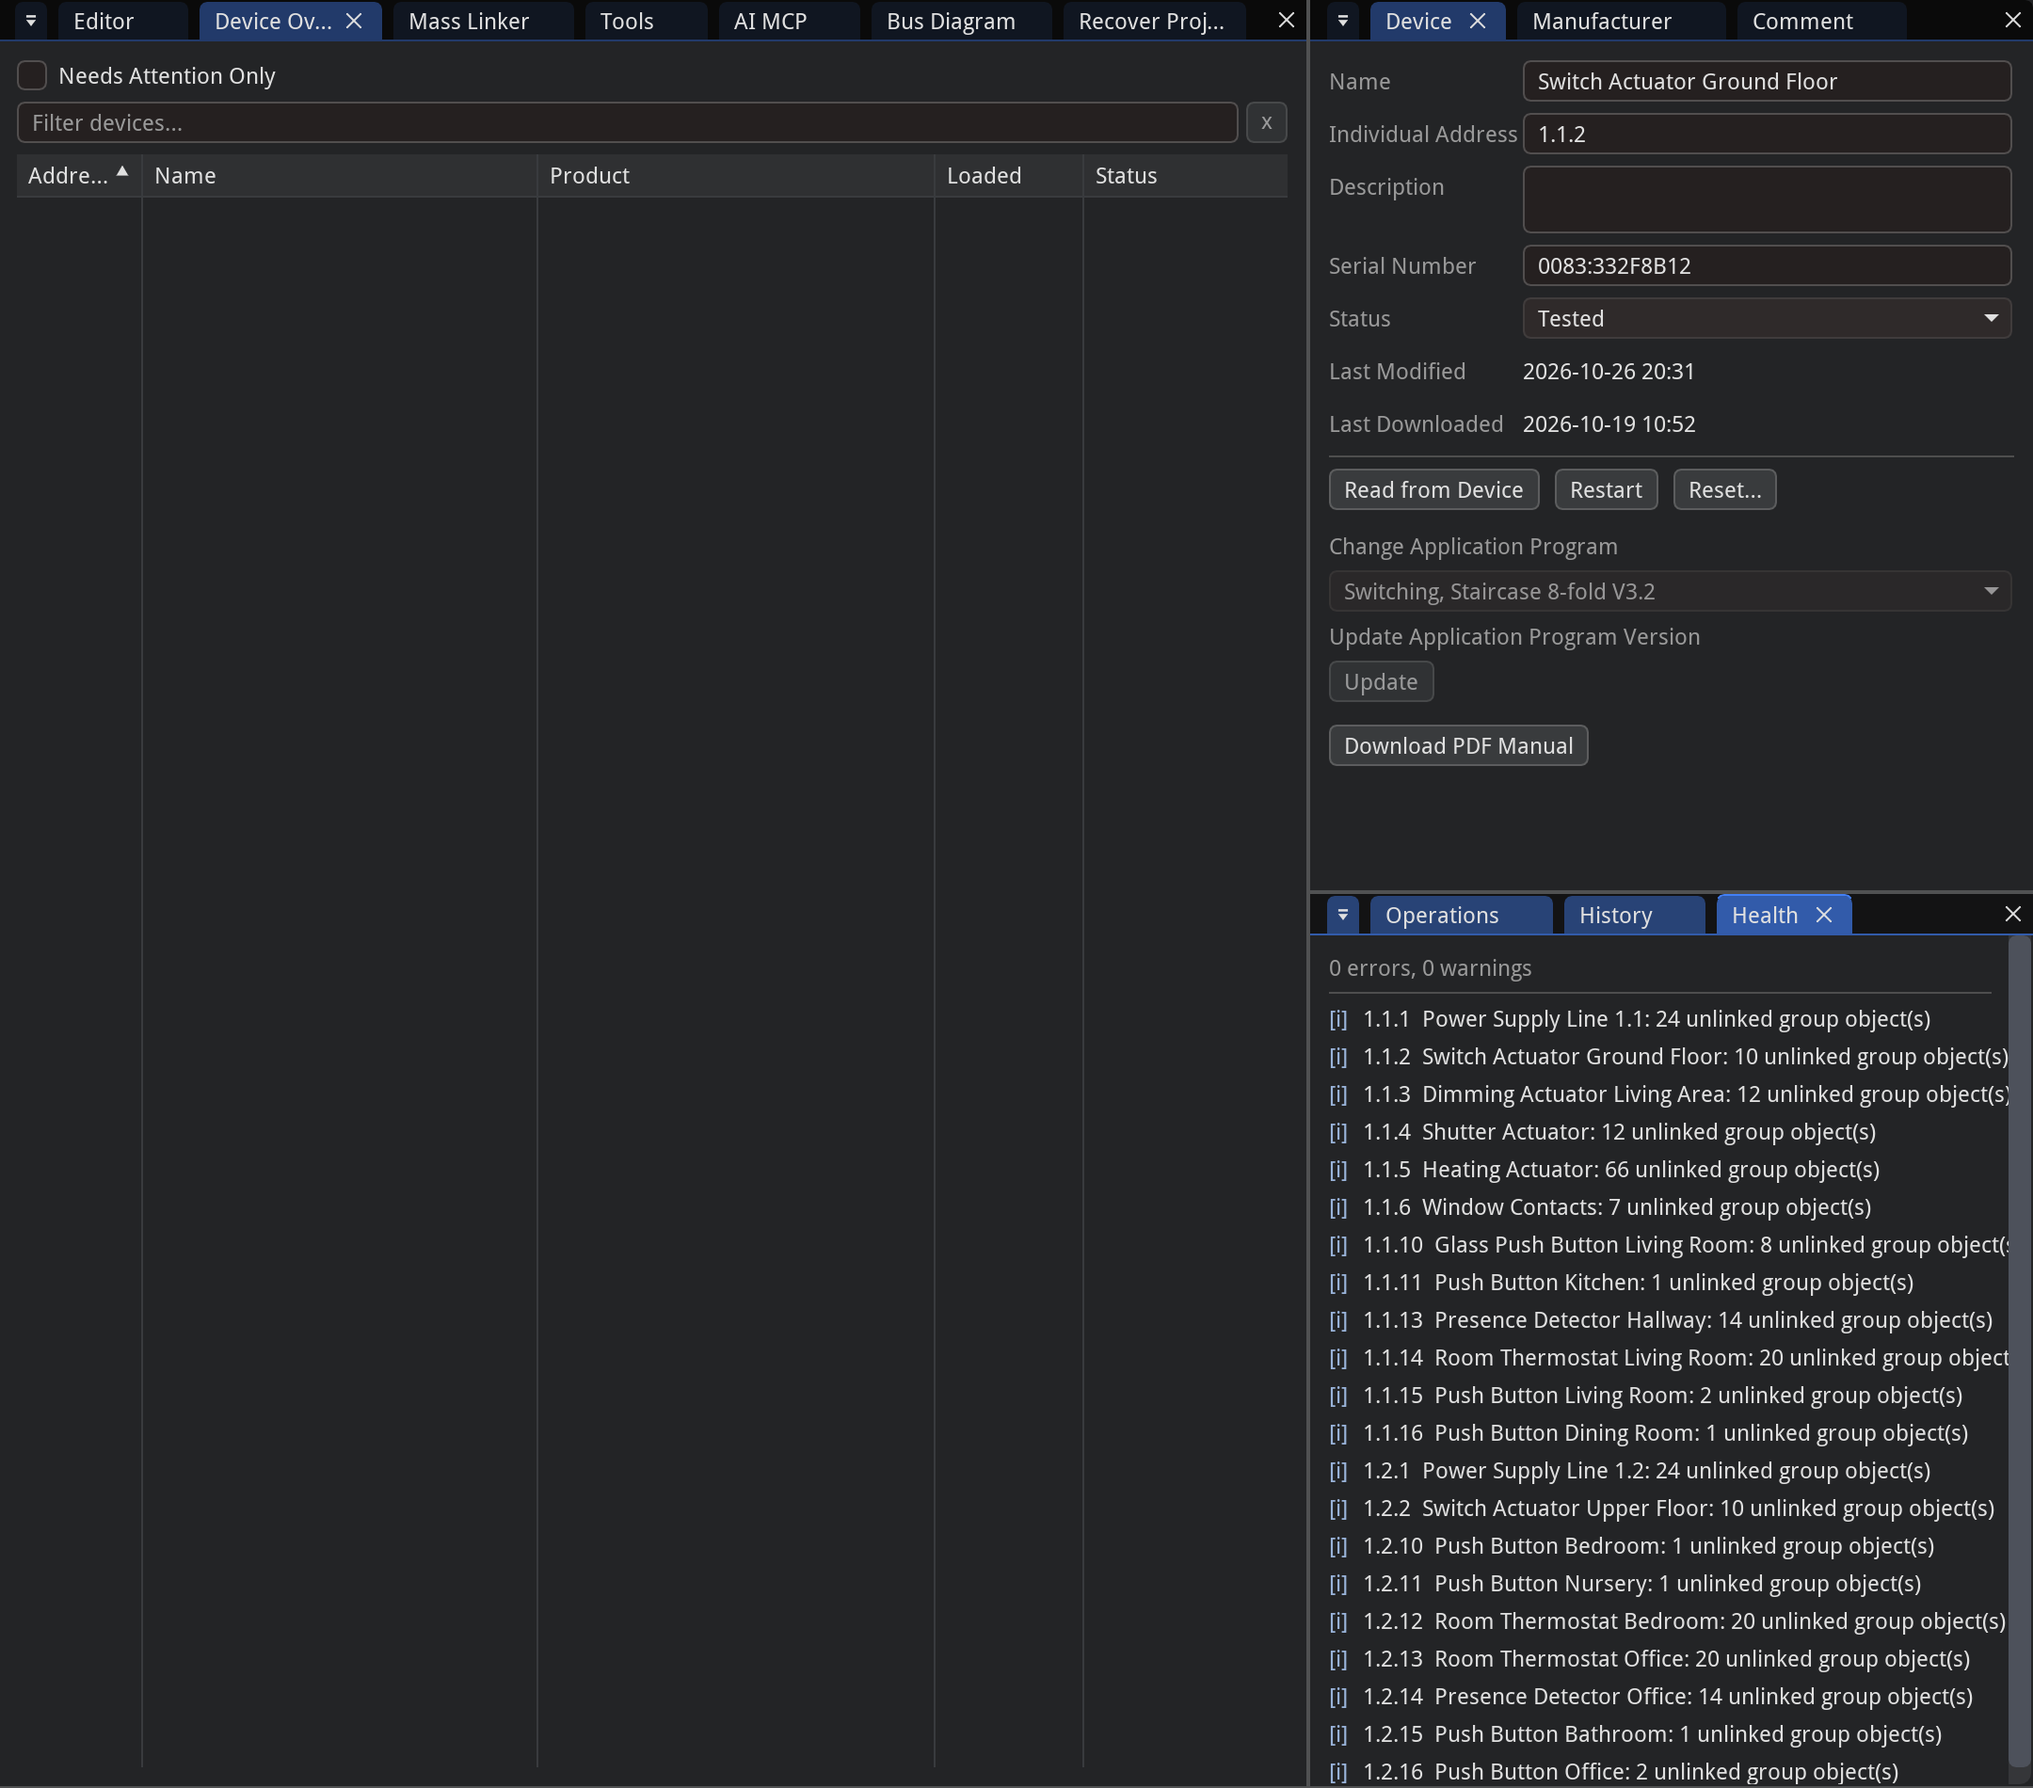
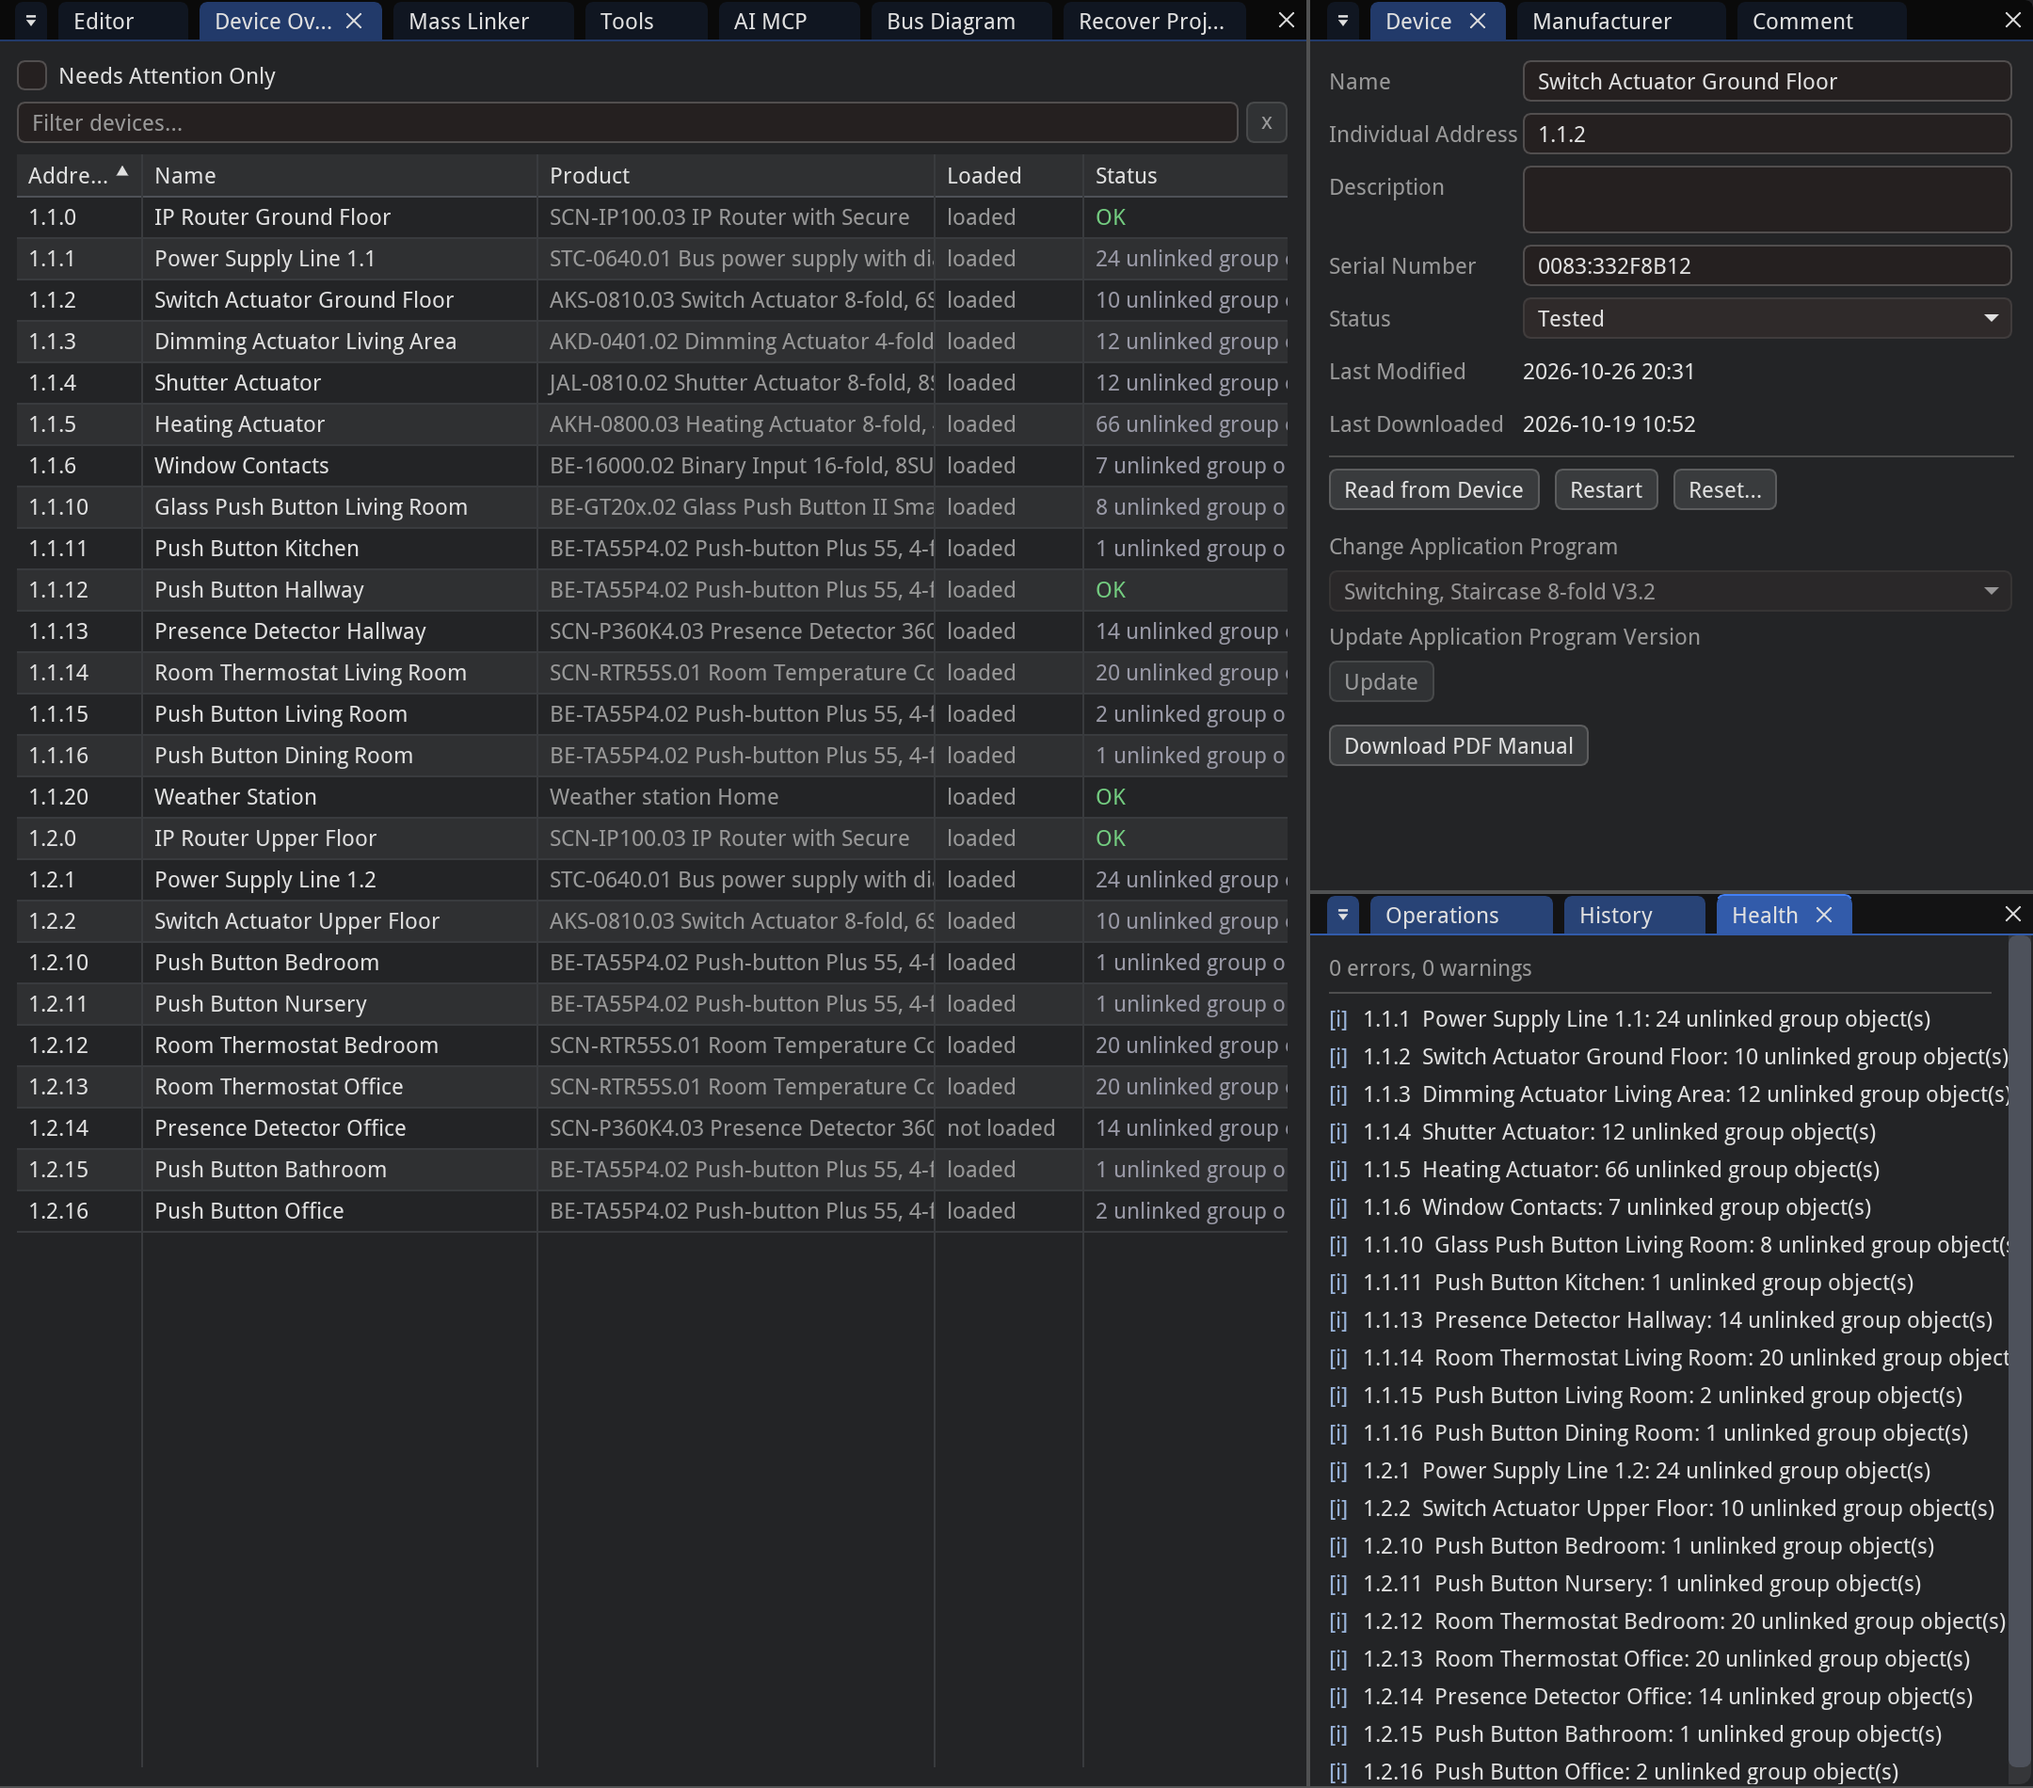
fix(cockpit): fill the Device Overview after a busy project, show findings without the device

diff --git a/apps/editor-gui/src/editor_gui/plugins/cockpit/service.py b/apps/editor-gui/src/editor_gui/plugins/cockpit/service.py
@@ -1,10 +1,12 @@
 """Commissioning cockpit data: one row per project device with catalog + health status.
 
-Rows are built from the live project and cached by the project revision, so the per-frame table
-render never hits the database. "Attention" is derived from the shared health checks."""
+Rows are built from the live project and cached by the project revision, its device list and the
+language, so the per-frame table render never hits the database. "Attention" is derived from the
+shared health checks."""
 
 from __future__ import annotations
 
+import re
 from collections.abc import Callable
 from dataclasses import dataclass, field
 from typing import TYPE_CHECKING, Any
@@ -12,8 +14,12 @@ from typing import TYPE_CHECKING, Any
 from editor_gui.device import address_order
 from editor_gui.plugins.cockpit.strings import S
 from editor_gui.plugins.health.service import HealthService, Severity
+from editor_gui.strings import get_locale
 
 _SEVERITY_RANK = {Severity.ERROR: 0, Severity.WARNING: 1, Severity.INFO: 2}
+# The colon that ends the device a finding starts with ("1.1.2  Name: 10 unlinked ..."): with a
+# space before it in French, full width (U+FF1A) in Chinese and Japanese.
+_LABEL_COLON = re.compile("^\\s*[:\uff1a]\\s*")
 
 if TYPE_CHECKING:
     from editor_gui.plugins.project.service import ProjectService
@@ -52,14 +58,23 @@ class CockpitRow:
 
     @property
     def issue_summary(self) -> str:
-        """Short inline text for the status column: the most severe finding's message with the
-        redundant device-name prefix removed, plus ``(+N)`` when further findings exist."""
+        """Short inline text for the status column: the most severe finding's message without the
+        device it starts with (the row shows it already), plus ``(+N)`` when further findings
+        exist."""
         if not self.issues:
             return ""
         _, message = min(self.issues, key=lambda i: _SEVERITY_RANK[i[0]])
-        prefix = f"{self.name}: "
-        if message.startswith(prefix):
-            message = message[len(prefix) :]
+        # The health checks name the device as the device lists do: "address  name".
+        label = (
+            f"{self.individual_address}  {self.name}"
+            if self.individual_address
+            else self.name
+        )
+        if label and message.startswith(label):
+            # The colon after it may have a space before it in some languages.
+            rest = _LABEL_COLON.sub("", message[len(label) :], count=1)
+            if rest != message[len(label) :]:
+                message = rest
         extra = len(self.issues) - 1
         return f"{message}  (+{extra})" if extra else message
 
@@ -122,17 +137,24 @@ class CockpitService:
         self._project = project
         self._health = HealthService(project)
         self._cache: list[CockpitRow] | None = None
-        self._cache_revision = -1
+        self._cache_key: tuple[int, int, str] | None = None
 
     def skipped_count(self) -> int:
         """Devices dropped from the view because their application is not in the catalog."""
         return len(self._project.missing_program_refs())
 
     def rows(self) -> list[CockpitRow]:
-        rev = self._project.revision
-        if self._cache is None or self._cache_revision != rev:
+        """One row per device, built again only when the project or the language changed.
+
+        While a background task holds the project (opening it, rebuilding the devices) its reads
+        are empty placeholders, so the last rows stay until it is done: built from them, the
+        table stayed empty until the next edit."""
+        if self._project.loading:
+            return self._cache or []
+        key = (self._project.revision, id(self._project.devices), get_locale())
+        if self._cache is None or self._cache_key != key:
             self._cache = self._build()
-            self._cache_revision = rev
+            self._cache_key = key
         return self._cache
 
     def _build(self) -> list[CockpitRow]:

diff --git a/apps/editor-gui/src/editor_gui/plugins/cockpit/tests/test_rows.py b/apps/editor-gui/src/editor_gui/plugins/cockpit/tests/test_rows.py
@@ -1,0 +1,102 @@
+"""The Device Overview rows follow the project, also when it was busy while they were first asked for."""
+
+from __future__ import annotations
+
+from types import SimpleNamespace
+from typing import Any, cast
+
+from editor_gui.plugins.cockpit.service import CockpitRow, CockpitService
+from editor_gui.plugins.health.service import Severity
+
+
+class _Project:
+    """The parts of the project service the rows read; ``loading`` like a background task."""
+
+    is_open = True
+    revision = 7
+
+    def __init__(self) -> None:
+        self.loading = False
+        self._devices = [
+            SimpleNamespace(
+                node_id=1,
+                individual_address="1.1.2",
+                display_name="Switch Actuator",
+                description="",
+            )
+        ]
+
+    @property
+    def devices(self) -> list[Any]:
+        # While a background task holds the project, its reads are empty placeholders.
+        return [] if self.loading else self._devices
+
+    def get_device_info(self, node_id: int) -> None:
+        return None
+
+
+def _service(project: _Project) -> CockpitService:
+    service = CockpitService(cast(Any, project))
+    service._health = cast(Any, SimpleNamespace(findings=list))  # pyright: ignore[reportPrivateUsage]
+    return service
+
+
+def test_rows_asked_for_while_the_project_is_busy_appear_when_it_is_done() -> None:
+    project = _Project()
+    project.loading = True
+    service = _service(project)
+    assert service.rows() == []
+    # Done, with the same revision: the rows are there without another edit.
+    project.loading = False
+    assert [r.individual_address for r in service.rows()] == ["1.1.2"]
+
+
+def test_the_last_rows_stay_while_the_project_is_busy() -> None:
+    project = _Project()
+    service = _service(project)
+    rows = service.rows()
+    project.loading = True
+    assert service.rows() is rows
+
+
+def _finding_row(address: str, name: str, *messages: str) -> CockpitRow:
+    return CockpitRow(
+        node_id=1,
+        individual_address=address,
+        name=name,
+        product_name="",
+        order_number="",
+        issues=[(Severity.INFO, m) for m in messages],
+    )
+
+
+def test_the_status_shows_the_finding_without_the_device() -> None:
+    row = _finding_row(
+        "1.1.2",
+        "Switch Actuator",
+        "1.1.2  Switch Actuator: 10 unlinked group object(s)",
+    )
+    assert row.issue_summary == "10 unlinked group object(s)"
+    # A device without an address is named alone; a space before the colon (French).
+    row = _finding_row("", "Sensor", "Sensor : pas d'adresse individuelle")
+    assert row.issue_summary == "pas d'adresse individuelle"
+
+
+def test_a_finding_about_something_else_keeps_its_text() -> None:
+    row = _finding_row(
+        "1.1.2",
+        "Switch Actuator",
+        "Duplicate individual address 1.1.2 (1.1.2  Switch Actuator)",
+        "1.1.2  Switch Actuator: 10 unlinked group object(s)",
+    )
+    assert row.issue_summary == (
+        "Duplicate individual address 1.1.2 (1.1.2  Switch Actuator)  (+1)"
+    )
+    # The device's name followed by more of a name is not the device.
+    row = _finding_row("", "Switch", "Switch Actuator: 3 unlinked group object(s)")
+    assert row.issue_summary == "Switch Actuator: 3 unlinked group object(s)"
+
+
+def test_a_full_width_colon_ends_the_device_too() -> None:
+    row = _finding_row("1.1.2", "Aktor", "1.1.2  Aktor\uff1a10 个未链接的组对象")
+    assert row.issue_summary == "10 个未链接的组对象"
